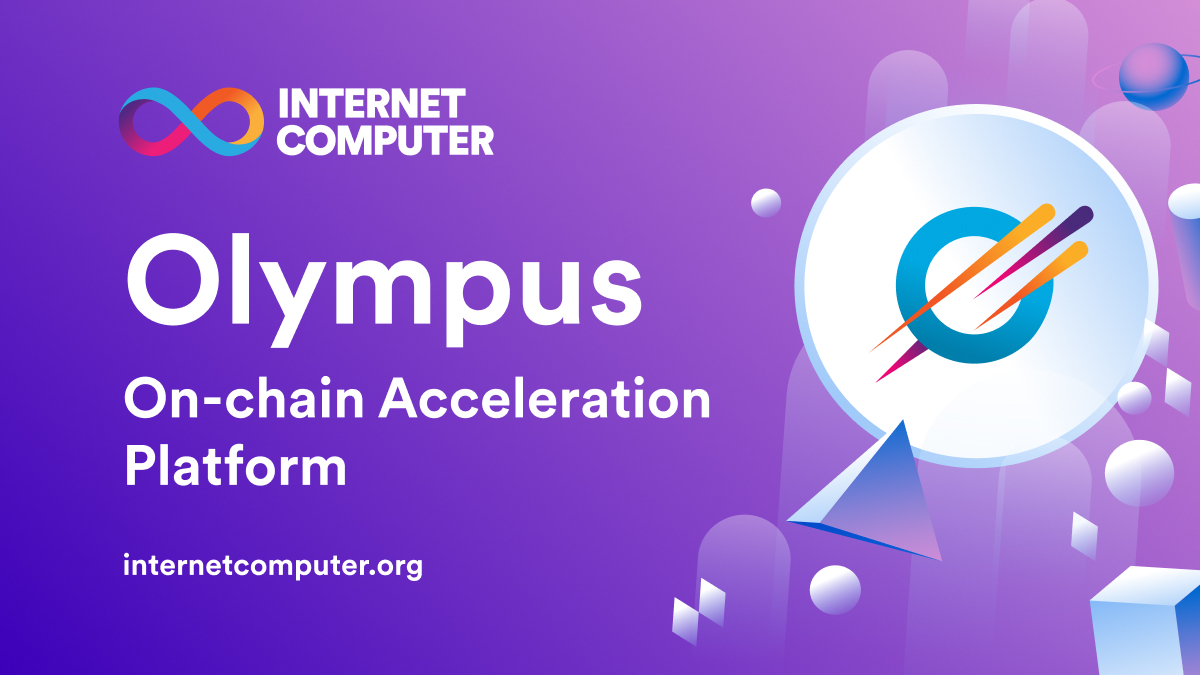
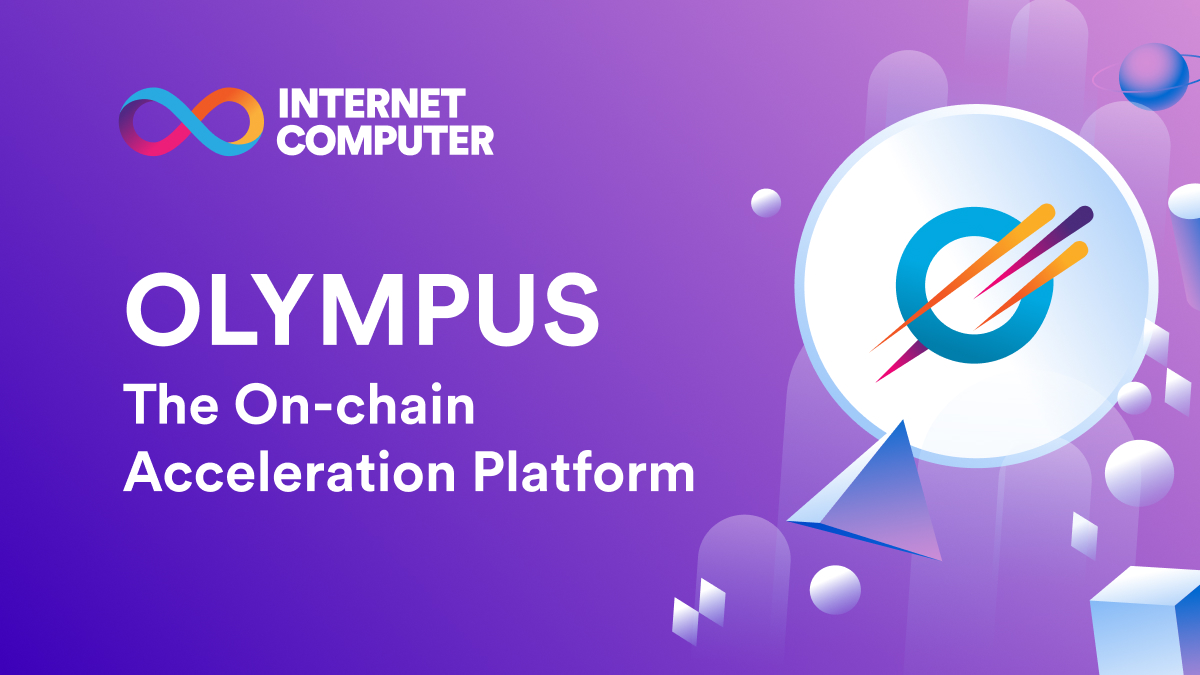
feat: olympus lp

Changed region(s): [[0.0925, 0.56, 0.6167, 0.7467], [0.0925, 0.3422, 0.555, 0.5289], [0.0925, 0.8089, 0.37, 0.8711]]

diff --git a/src/pages/olympus.tsx b/src/pages/olympus.tsx
@@ -17,7 +17,7 @@ const layoutData = [
     image: "img/accelerator/image_1.webp",
     title: "Inclusive",
     description:
-      "By operating in silos, traditional accelerators risk limiting interaction. Olympus encourages stakeholders from all cohorts to engage directly and transparently on a single collaborative platform.",
+      "While traditional accelerators limit interactions among stakeholders, OLYMPUS empowers founders, investors, mentors and talents to communicate and collaborate directly within the platform.",
     reverse: true,
   },
   {
@@ -25,7 +25,7 @@ const layoutData = [
     image: "img/accelerator/image_2.webp",
     title: "Transparent",
     description:
-      "Metrics and reputation are key factors to make informed decisions. Olympus infrastructure provides on chain growth data for projects and multi-party rating tools to ensure verifiable reputation at all levels. Startups are publicly rated on a range of parameters including team, product, value proposition, business model, and technology.",
+      "Metrics and reputation are key factors to make informed decisions. OLYMPUS infrastructure provides on-chain growth data for projects and multi-party rating tools to ensure verifiable reputation at all levels. Startups are publicly rated on a range of parameters including team, product, value proposition, business model, and technology.",
     reverse: false,
   },
   {
@@ -33,7 +33,7 @@ const layoutData = [
     image: "img/accelerator/image_3.webp",
     title: "Global + Local",
     description:
-      "Olympus offers stakeholders a platform with a global outreach, while leveraging on a localized pipeline of projects scouted and filtered from 40+ countries.",
+      "OLYMPUS provides global outreach and visibility, leveraging communities of investors, mentors, founders and talents across 40+ countries.",
     reverse: true,
   },
   {
@@ -41,7 +41,7 @@ const layoutData = [
     image: "img/accelerator/image_4.webp",
     title: "Multichain",
     description:
-      "The Olympus platform is open to all Web3 stakeholders. Projects get the opportunity to scale faster by accessing a pool of talent, mentorship, capital and users coming from different ecosystems including Bitcoin and Ethereum.",
+      "OLYMPUS is open to all Web3 ecosystems and stakeholders, offering founders the opportunity to accelerate faster, access mentorship and talent pools, and connect with capital.",
     reverse: false,
   },
   {
@@ -49,7 +49,7 @@ const layoutData = [
     image: "img/accelerator/image_5.webp",
     title: "Sustainable",
     description:
-      "Challenging the mainstream acceleration model of “perpetual funding”, Olympus envisions a self-sustaining roadmap both for Web3 founders and the platform itself. Ultimately, this will include the decentralization of Olympus funding mechanism through token offering.",
+      "OLYMPUS challenges the mainstream acceleration model of perpetual funding and replaces it with a self-sustaining roadmap for both Web3 founders and the platform itself.",
     reverse: true,
   },
 ];
@@ -61,39 +61,31 @@ const cardsData = [
     title: "Founders",
     subtitle: "Think outside the box",
     description:
-      "Look beyond the benefits of a legacy accelerator. Scale sustainably thanks to a collaborative ecosystem of mentors, talents, investors, users",
+      "Look beyond the benefits of a legacy accelerator. Scale sustainably thanks to a collaborative ecosystem of mentors, talents, investors, users.",
   },
   {
     id: 2,
-    imageSrc: "img/accelerator/icon_2.webp",
-    title: "Users",
-    subtitle: "Become crypto pioneers",
+    imageSrc: "img/accelerator/icon_3.webp",
+    title: "Talents",
+    subtitle: "Start your journey as Web3 pro",
     description:
-      "Access the founding circles of the latest dapps and actively contribute to their growth",
+      "Access opportunities at early-stage projects and build a solid Web3 network.",
   },
   {
     id: 3,
-    imageSrc: "img/accelerator/icon_3.webp",
-    title: "Talent",
-    subtitle: "Start your journey as Web3 pro",
-    description:
-      "Access opportunities at early-stage projects and build a solid Web3 network",
-  },
-  {
-    id: 4,
     imageSrc: "img/accelerator/icon_4.webp",
     title: "Mentors",
     subtitle: "Echo your expertise in the field",
     description:
-      "Share your valuable knowledge with the best founders, and get involved in the next potential killer app",
+      "Share your valuable knowledge with the best founders, and get involved in the next potential killer app.",
   },
   {
-    id: 5,
+    id: 4,
     imageSrc: "img/accelerator/icon_5.webp",
     title: "Investors",
     subtitle: "Lead with the right tools",
     description:
-      "Access globally vetted deals involving innovative Web3 projects and leverage verified data and ratings for your decisions",
+      "Access globally vetted deals involving innovative Web3 projects and leverage verified data and ratings for your decisions.",
   },
 ];
 
@@ -105,8 +97,8 @@ function AcceleratorPage() {
 
   return (
     <Layout
-      title="Olympus, an On-Chain Acceleration Platform"
-      description="Olympus is a multichain startup acceleration platform, fostering collaboration among key stakeholders and leveraging blockchain technology to enhance transparency."
+      title="OLYMPUS | The On-chain Acceleration Platform"
+      description="OLYMPUS is the first on-chain Web3 acceleration platform connecting founders, investors, mentors and talents across different ecosystems."
     >
       <ShareMeta image="/img/shareImages/share-olympus.jpg"></ShareMeta>
 
@@ -128,39 +120,35 @@ function AcceleratorPage() {
           <div className="container-10 mb-40 pt-20 pb-12 sm:pb-40 md:pb-40 md:pt-36 relative z-10">
             <div className="relative">
               <motion.h1
-                className="tw-heading-3 md:tw-heading-2 mb-2 md:mb-6 md:w-8/10"
+                className="tw-heading-3 md:tw-heading-2 mb-1 md:mb-3"
                 variants={transitions.item}
               >
-                Olympus, <br className="md:hidden" /> an On-Chain Acceleration
-                Platform
+                OLYMPUS
               </motion.h1>
+              <motion.h2 className="tw-heading-4 md:tw-heading-3 mb-2 md:mb-6">
+                The On-Chain Acceleration Platform
+              </motion.h2>
               <div className="relative  md:w-5/10">
                 <motion.p
                   className="tw-lead-sm md:tw-lead mb-8"
                   variants={transitions.item}
                 >
-                  Olympus is a multichain startup acceleration platform,
-                  fostering collaboration among key stakeholders and leveraging
-                  blockchain technology to enhance transparency.
+                  OLYMPUS is the first on-chain Web3 acceleration platform
+                  connecting founders, investors, mentors and talents across
+                  different ecosystems.
                 </motion.p>
               </div>
               <MotionLink
-                href="https://zj3dp-waaaa-aaaak-afpxa-cai.icp0.io/"
+                href="https://airtable.com/app5kkXNk5jTbPn4A/shrTV2c1swnQe7DXt"
                 className="button-white"
                 variants={transitions.item}
               >
-                Get Early Access (Beta)
+                Request Early Access
               </MotionLink>
-              {/* <Link
-                href=""
-                className="button-white pointer-events-none !text-black/30"
-                aria-disabled
-              >
-                COMING SOON
-              </Link> */}
             </div>
 
             <AnimateSpawn
+              variants={null}
               el={motion.section}
               className="pointer-events-none relative md:absolute -z-1 right-0 bottom-0 -mt-60 md:mt-0 md:w-2/10"
             >
@@ -178,19 +166,12 @@ function AcceleratorPage() {
         <section className="container-10 relative -mt-8 md:mt-40">
           <AnimateSpawn variants={transitions.container}>
             <motion.h2
-              className="text-gradient tw-heading-4 md:tw-heading-60 mb-0 md:max-w-7/10"
-              variants={transitions.item}
-            >
-              A novel framework for founders, investors, mentors  and
-              contributors
-            </motion.h2>
-            <motion.p
-              className="text-gradient tw-paragraph md:tw-lead mb-8 mt-4 md:max-w-5/10 md:font-bold font-bold"
+              className="text-gradient tw-heading-4 md:tw-heading-60 mb-0 md:max-w-9/12"
               variants={transitions.item}
             >
               A new framework designed to address Web3 adoption challenges and
-              accelerate the next web3 unicorn.
-            </motion.p>
+              accelerate the next set of unicorns.
+            </motion.h2>
           </AnimateSpawn>
         </section>
 
@@ -228,7 +209,7 @@ function AcceleratorPage() {
               Value Proposition & Key Personas
             </motion.h2>
 
-            <div className="mt-20 grid grid-cols-1 gap-5 text-black sm:grid-cols-2 md:grid-cols-3 md:mr-12">
+            <div className="md:w-[140%] md:relative md:-left-2/10 mt-20 grid grid-cols-1 gap-5 text-black sm:grid-cols-2 md:grid-cols-4">
               {cardsData.map((card) => (
                 <ShowcaseCard
                   key={card.id}
@@ -241,22 +222,20 @@ function AcceleratorPage() {
             </div>
             <aside className="mt-40 md:flex md:items-center	">
               <div className="pt-24 md:w-1/3">
-                <motion.h3 className="tw-heading-4">
-                  Continual Rating Loop
-                </motion.h3>
+                <motion.h3 className="tw-heading-4">Rating Loop</motion.h3>
                 <motion.p className="text-2xl mb-0 ">
-                  Olympus participants are in a perpetual feedback loop: users
+                  OLYMPUS participants are in a perpetual feedback loop: users
                   rate projects, projects rate investors, and investors rate
                   mentors. Reputation is stored on the blockchain, making it
-                  consistent and easily accessible. Furthermore, all Olympus
+                  consistent and easily accessible. Furthermore, all OLYMPUS
                   users must pass a proof of personhood test to ensure each
                   rating comes from a verifiable source.
                 </motion.p>
               </div>
-              <div className="md:w-2/3 relative mt-12 md:mt-0 ">
+              <div className="md:w-2/3 relative mt-12 md:mt-64 md:mb-64">
                 <div className="pointer-events-none md:absolute w-full  md:-right-24 md:top-1/2  md:-translate-y-1/2">
                   <motion.div
-                    className="absolute blob blob-white blob-md md:blob-lg blob-x-6 md:blob-x-8 blob-y-0"
+                    className="absolute blob blob-white blob-md md:blob-lg blob-x-6 md:blob-x-8 -blob-y-2"
                     variants={transitions.fadeIn}
                   ></motion.div>
                   <motion.img
@@ -280,34 +259,19 @@ function AcceleratorPage() {
               variants={transitions.fadeIn}
             ></motion.div>
             <motion.h2
-              className="tw-heading-3 text-center mb-2 w-full mx-auto md:tw-heading-60 md:mb-6 lg:w-8/12"
+              className="tw-heading-3 text-center mb-6 w-full mx-auto md:tw-heading-60 md:mb-12 lg:w-8/12"
               variants={transitions.item}
             >
-              Explore the platform
+              Find out how OLYMPUS can help You accelerate
             </motion.h2>
-            <div className="text-center md:w-5/10 mx-auto">
-              <motion.p
-                className="relative tw-text-sm md:tw-text-base mb-8 text-center"
-                variants={transitions.item}
-              >
-                Find out how Olympus can help you build the next big Web3 idea.
-              </motion.p>
-            </div>
             <div>
               <MotionLink
-                href="https://zj3dp-waaaa-aaaak-afpxa-cai.icp0.io/"
+                href="https://airtable.com/app5kkXNk5jTbPn4A/shrTV2c1swnQe7DXt"
                 className="button-white"
                 variants={transitions.item}
               >
-                Get Early Access (Beta)
+                Request Early Access
               </MotionLink>
-              {/* <Link
-                href=""
-                className="button-white pointer-events-none !text-black/30"
-                aria-disabled
-              >
-                COMING SOON
-              </Link> */}
             </div>
           </AnimateSpawn>
 

diff --git a/src/components/Common/MarketingNav/index.tsx b/src/components/Common/MarketingNav/index.tsx
@@ -18,6 +18,7 @@ type SectionItem = {
 
 type FeaturedItem = {
   title: string;
+  subtitle?: string;
   href?: string;
   image: string;
 };
@@ -224,7 +225,19 @@ const Flyout: React.FC<{ item: NavItem; isActive }> = ({ item, isActive }) => {
                 >
                   <span className="tw-heading-5 text-white flex-[2] group-hover/featured:-translate-y-2 transition-transform">
                     {item.sections[selectedSectionIndex].featured.title}
+                    {item.sections[selectedSectionIndex].featured.subtitle && (
+                      <>
+                        <br />
+                        <span className="tw-heading-7 text-white flex-[2] group-hover/featured:-translate-y-2 transition-transform">
+                          {
+                            item.sections[selectedSectionIndex].featured
+                              .subtitle
+                          }
+                        </span>
+                      </>
+                    )}
                   </span>
+
                   <span className="flex-1 text-right">
                     <FeaturedArrowRight />
                   </span>

diff --git a/src/components/Common/Card/index.tsx b/src/components/Common/Card/index.tsx
@@ -147,7 +147,7 @@ export const ShowcaseCard: React.FC<{
 }> = ({ imgSrc, title, subtitle, description }) => {
   return (
     <motion.div
-      className="bg-white/90 border overflow-hidden border-white border-solid rounded-xl px-6 py-8 md:p-8  text-black "
+      className="bg-white/90 border overflow-hidden border-white border-solid rounded-xl px-6 py-8  text-black "
       variants={transitions.item}
     >
       <img src={imgSrc} loading="lazy" alt="" className="w-20 h-20"></img>

diff --git a/docusaurus.config.js b/docusaurus.config.js
@@ -440,7 +440,8 @@ const marketingNav = {
             },
           ],
           featured: {
-            title: "Olympus - Acceleration Platform",
+            title: "Olympus",
+            subtitle: "The On-Chain Acceleration Platform",
             href: "/olympus",
             image: "/img/nav/featured-olympus.webp",
           },
